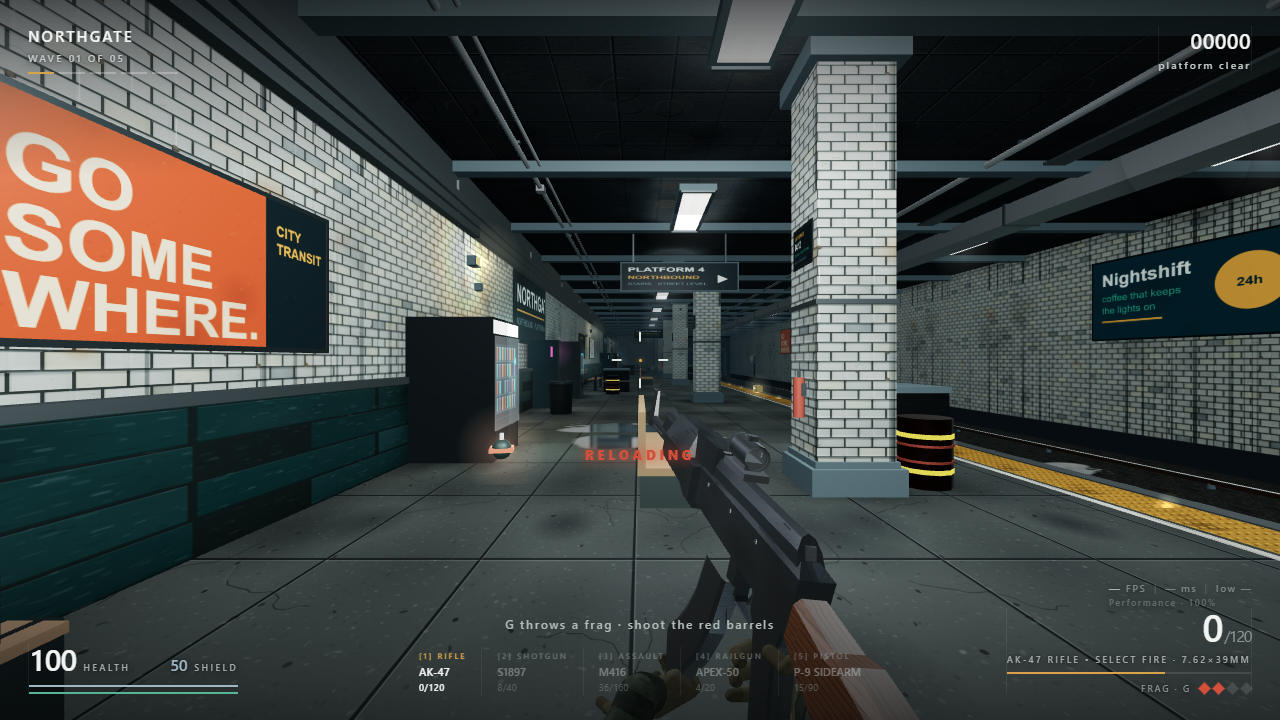
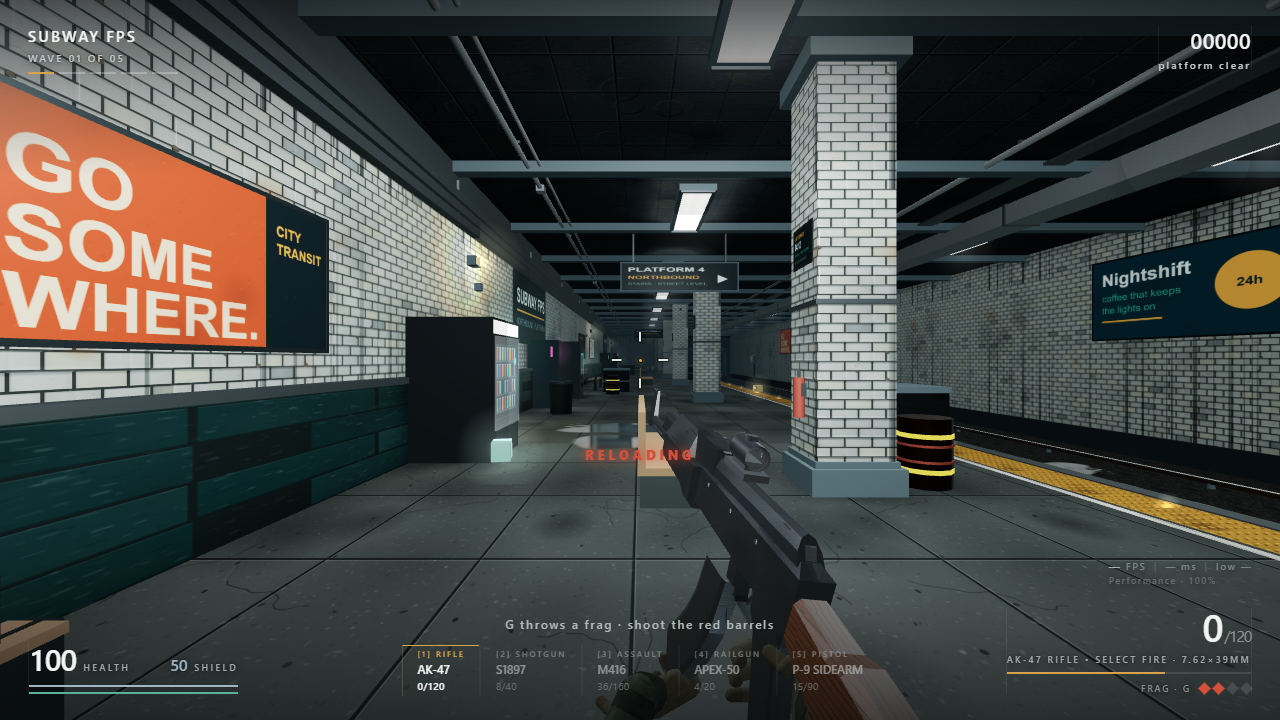
Refine the HUD and fix four measured layout defects
Measured the HUD's real boxes across seven viewports rather than reading
the stylesheet, which turned up four defects the three stacked design
layers had left behind.

Layout, all verified by bounding-box overlap tests:

- Score and ammo collided by 78x29px on landscape phones. The flat-readout
  pass set #board and #gun to right:28px with no media guard, overriding
  the phone layout's deliberate right:244px / right:112px and stacking both
  readouts in one corner, under the pause and fullscreen buttons.
- Between 901px and 1024px wide (iPad landscape, a half-screen laptop
  window) the compact block opens at max-width:1024px but every later block
  that undoes it was written against 900px, so 'top' applied while 'bottom'
  still did and the readouts stretched: #gun measured 732px tall in a 768px
  viewport. The four later breakpoints now match the compact range.
- Portrait tablets, inside the compact range but outside the portrait-phone
  block, had the same score/ammo collision. They get the side-by-side pair.
- The hint line ran through the score row on short landscape windows and on
  portrait tablets; it now starts below it.

Refinement:

- The reticle was near-white with a soft shadow and effectively vanished
  against the platform tile. A hard 1px dark edge keeps it readable on tile,
  track and tunnel without making it heavier.
- The arsenal row rested at .42 opacity, under the floor where 9px type
[…]

diff --git a/css/game.css b/css/game.css
@@ -107,6 +107,13 @@ h2{font-size:clamp(26px,5vw,38px);line-height:1;letter-spacing:-.02em;margin:12p
 #hint{position:absolute;left:50%;bottom:18px;transform:translateX(-50%);font-size:11.5px;
   letter-spacing:.18em;color:#859b98;font-weight:600}
 #hitmark.blocked span{background:#5fe8ff;box-shadow:0 0 10px #5fe8ff}
+/* hit feed and combo counter: base state here, phone placement in the media blocks below */
+#hitfeed{position:absolute;left:50%;top:42%;transform:translateX(-50%);white-space:nowrap;
+  font-size:15px;font-weight:600;letter-spacing:.14em;color:#ffcc44;
+  opacity:0;transition:opacity .2s;pointer-events:none}
+#combo{position:absolute;right:24px;top:50%;white-space:nowrap;
+  font-size:28px;font-weight:600;letter-spacing:-.02em;color:#ff6a3a;
+  opacity:0;transition:opacity .3s;pointer-events:none}
 
 /* floating damage numbers, projected from world space each frame */
 #dmgnums{position:absolute;inset:0;overflow:hidden;pointer-events:none}
@@ -884,8 +891,6 @@ h2{font-weight:600;letter-spacing:-.03em}
 #medal b{font-weight:600;letter-spacing:.18em;text-shadow:none}
 #medal i{font-weight:500;letter-spacing:.22em}
 #hint{color:var(--muted);letter-spacing:.18em}
-#combo{font-weight:600 !important;text-shadow:none !important;letter-spacing:-.02em !important}
-#hitfeed{font-weight:600 !important;text-shadow:none !important;letter-spacing:.14em !important}
 
 /* ---- weapon dock ---- */
 #wpndock{gap:6px;bottom:18px}
@@ -960,7 +965,7 @@ h2{font-weight:600;letter-spacing:-.03em}
   .secondary{padding:9px 13px}             /* keep the option pills thumb-sized */
 }
 
-@media (max-width:900px){
+@media (max-width:1024px), (max-height:600px){
   /* The ammo plate sits between the score plate and the top buttons. Letting it size to its own
      content (fine on a desktop) pushed it left over the score. */
   #gun{width:auto;min-width:104px;max-width:152px}
@@ -997,8 +1002,10 @@ h2{font-weight:600;letter-spacing:-.03em}
    so every readout paints over it. */
 #hud::before{
   content:"";position:absolute;inset:0;pointer-events:none;
-  background:linear-gradient(180deg,rgba(4,6,7,.52) 0,rgba(4,6,7,0) 140px),
-             linear-gradient(0deg,rgba(4,6,7,.60) 0,rgba(4,6,7,0) 200px);
+  /* The top corners sit on white brick, so the scrim carries further up than down and the
+     secondary type is never left to fight the tile on its own. */
+  background:linear-gradient(180deg,rgba(4,6,7,.66) 0,rgba(4,6,7,.22) 96px,rgba(4,6,7,0) 176px),
+             linear-gradient(0deg,rgba(4,6,7,.62) 0,rgba(4,6,7,0) 200px);
 }
 
 /* readouts, not panels */
@@ -1066,7 +1073,7 @@ h2{font-weight:600;letter-spacing:-.03em}
 /* the map keeps its own body, aligned to the same right margin */
 #map{top:82px;right:28px}
 
-@media (max-width:900px){
+@media (max-width:1024px), (max-height:600px){
   #hud::before{background:linear-gradient(180deg,rgba(4,6,7,.5) 0,rgba(4,6,7,0) 96px),
                           linear-gradient(0deg,rgba(4,6,7,.5) 0,rgba(4,6,7,0) 120px)}
   #service{top:12px;left:14px}
@@ -1078,12 +1085,6 @@ h2{font-weight:600;letter-spacing:-.03em}
   #service .dest{font-size:13px}
 }
 
-/* HUD legibility over the bright tiled wall: the top corners sit on white brick, so the scrim
-   carries further and the secondary type is not allowed to drop to a whisper. */
-#hud::before{
-  background:linear-gradient(180deg,rgba(4,6,7,.66) 0,rgba(4,6,7,.22) 96px,rgba(4,6,7,0) 176px),
-             linear-gradient(0deg,rgba(4,6,7,.62) 0,rgba(4,6,7,0) 200px);
-}
 #service .sub{color:#c2cbc9}
 #board .sub{color:#c2cbc9}
 #pips i{background:rgba(255,255,255,.26)}
@@ -1091,8 +1092,79 @@ h2{font-weight:600;letter-spacing:-.03em}
 #vitals .cap,#gunline,.wcard .whead{color:#a6b0ae}
 /* the hint line belongs above the arsenal row, not through it */
 #hint{bottom:88px;color:#b3bcba;letter-spacing:.16em}
-@media (max-width:900px){ #hint{bottom:auto} }
+@media (max-width:1024px), (max-height:600px){ #hint{bottom:auto} }
 
 /* the two end-of-run choices are one row of equals, not a button with an afterthought under it */
 .panel-actions{display:flex;flex-wrap:wrap;gap:10px;align-items:center;margin-top:26px}
 .panel-actions .primary{margin-top:0;margin-right:0}
+
+/* ============================================================================
+   HUD refinement pass
+   Measured against the live 1280x720 frame rather than eyeballed: the telemetry
+   block ended at the exact pixel the weapon readout began, the arsenal row sat
+   too far under its own contrast floor to be read at a glance, and the reticle
+   was a pale shape with a soft shadow on a wall of white tile.
+   ============================================================================ */
+
+/* Telemetry cleared the weapon readout by 0px, so the two rendered as one smudged
+   column. It is diagnostics: give it real air and let the ammo own that corner. */
+#fpshud{bottom:134px}
+
+/* The arsenal row carried the five weapons at .42, which is under the point where
+   9px type survives a bright tiled wall behind it. Lift the resting state, keep the
+   active card at full strength, and give the ammo counts a legible size. */
+.wcard{opacity:.56}
+.wcard:hover{opacity:.82}
+.wcard .wammo{font-size:10px;letter-spacing:.02em}
+.wcard .wname{font-size:11.5px}
+/* The active weapon was signalled by opacity alone once the cards lost their bodies.
+   A hairline in the accent re-establishes it without bringing the panel back. */
+.wcard.active{box-shadow:inset 0 1px 0 0 var(--amber)}
+
+/* A near-white reticle with only a soft glow disappears against the platform tile.
+   A hard one-pixel dark edge keeps the same shape readable on tile, track and tunnel
+   without making the reticle heavier. */
+#crosshair span{box-shadow:0 0 0 1px rgba(0,0,0,.55),0 0 6px rgba(0,0,0,.85)}
+#crosshair .dot{box-shadow:0 0 0 1px rgba(0,0,0,.5),0 0 5px var(--amber)}
+
+
+/* Landscape phones: score and ammo are two readouts in one corner, not one on top
+   of the other. The flat-readout pass above sets #board and #gun to right:28px with
+   no media guard, which overrode the phone layout's deliberate right:244px / right:112px
+   and stacked the two on the same corner - a measured 78x29px overlap at 844x390, with
+   both of them sitting under the pause and fullscreen buttons as well. Restore the
+   side-by-side offsets the phone layout asked for; portrait keeps its own block below. */
+@media (max-width:1024px) and (orientation:landscape), (max-height:600px) and (orientation:landscape){
+  #gun{
+    top:calc(10px + env(safe-area-inset-top));bottom:auto;
+    right:calc(112px + env(safe-area-inset-right));
+  }
+  #board{
+    top:calc(10px + env(safe-area-inset-top));
+    right:calc(244px + env(safe-area-inset-right));
+  }
+}
+
+/* Portrait tablets (601-1024px) sit inside the compact HUD range but outside the
+   portrait-phone block, so they were still getting the desktop right:28px for both
+   readouts and the same score/ammo collision. Give them the side-by-side pair too. */
+@media (min-width:601px) and (max-width:1024px) and (orientation:portrait){
+  #gun{
+    top:calc(10px + env(safe-area-inset-top));bottom:auto;
+    right:calc(112px + env(safe-area-inset-right));
+  }
+  #board{
+    top:calc(10px + env(safe-area-inset-top));
+    right:calc(244px + env(safe-area-inset-right));
+  }
+  /* and clear of the score row, as in landscape */
+  #hint{top:calc(80px + env(safe-area-inset-top))}
+}
+
+/* Short landscape windows keep the full-height score block (10px to 67px) but place the
+   hint at 62px, so the hint ran through the score. Start it under that row. Touch phones
+   have their own tighter placement at max-height:450px and are more specific, so they
+   are unaffected. */
+@media (max-height:600px) and (orientation:landscape){
+  #hint{top:calc(80px + env(safe-area-inset-top))}
+}

diff --git a/index.html b/index.html
@@ -61,7 +61,7 @@
   </div>
   <div class="plate" id="gun">
     <div id="ammo">30<em>/120</em></div>
-    <div id="gunline">RM-4 CARBINE · R TO RELOAD</div>
+    <div id="gunline">AK-47 RIFLE · R TO RELOAD</div>
     <div id="reload"><i id="reloadfill"></i></div>
     <div id="nades"><span>FRAG · G</span><i class="on"></i><i class="on"></i><i></i><i></i></div>
   </div>
@@ -73,8 +73,8 @@
   <div id="hitmark"><span></span><span></span><span></span><span></span></div>
   <div id="call"><i id="callsub">SERVICE NOTICE</i><b id="calltitle">Wave one</b></div>
   <div id="alert"></div>
-  <div id="hitfeed" style="position:absolute;left:50%;top:42%;transform:translateX(-50%);font-size:15px;font-weight:900;letter-spacing:.18em;color:#ffcc44;text-shadow:0 0 12px rgba(255,180,40,.9);opacity:0;transition:opacity .2s;pointer-events:none"></div>
-  <div id="combo" style="position:absolute;right:24px;top:50%;font-size:28px;font-weight:900;color:#ff6a3a;text-shadow:0 0 16px rgba(255,60,20,.8);opacity:0;transition:opacity .3s;pointer-events:none;letter-spacing:.05em"></div>
+  <div id="hitfeed"></div>
+  <div id="combo"></div>
   <div id="hint"></div>
 </div>
 

diff --git a/js/core.js b/js/core.js
@@ -22,7 +22,6 @@ try{
 }catch(err){die('WebGL is unavailable in this browser. Turn on hardware acceleration and reload.');throw err;}
 if(!renderer||!renderer.getContext()){die('WebGL is unavailable in this browser. Turn on hardware acceleration and reload.');throw new Error('WebGL unavailable');}
 
-var coarse=window.matchMedia('(pointer: coarse)').matches;
 var reduceMotion=window.matchMedia('(prefers-reduced-motion: reduce)').matches;
 var TAU=Math.PI*2, clamp=THREE.MathUtils.clamp, lerp=THREE.MathUtils.lerp;
 function slerp(cur, tgt, k, dt){ return cur + (tgt - cur) * (1.0 - Math.exp(-k * dt)); }
